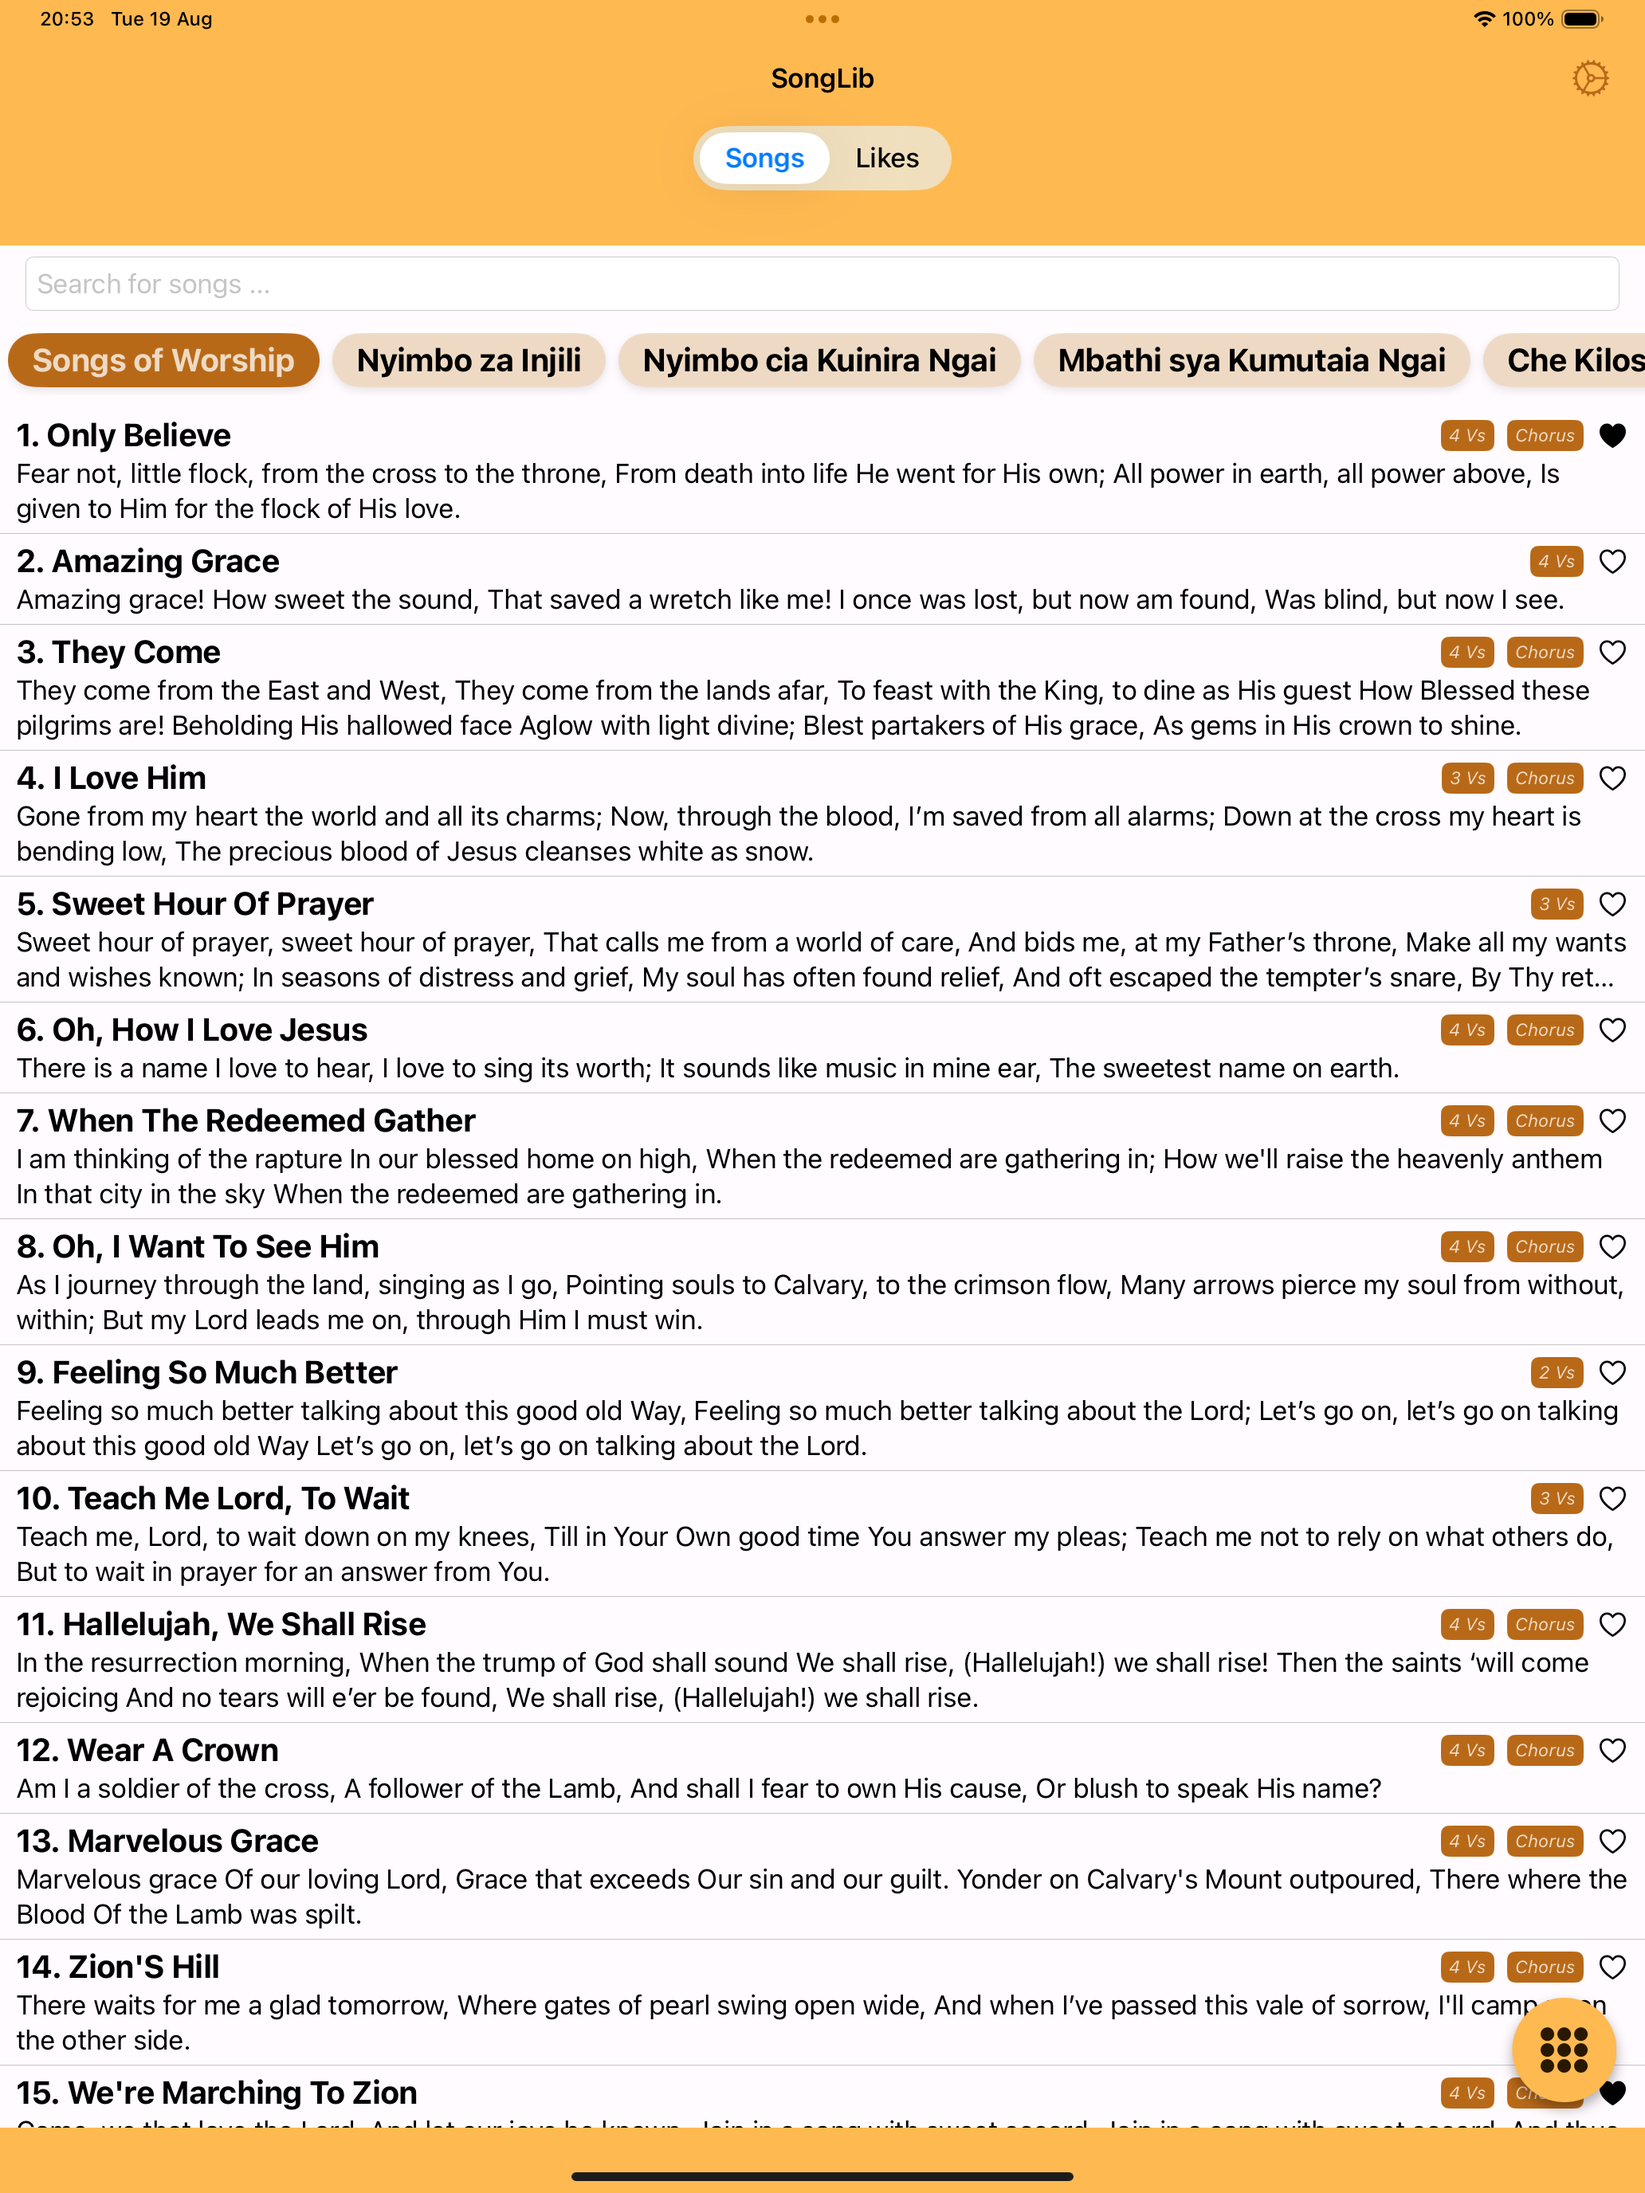
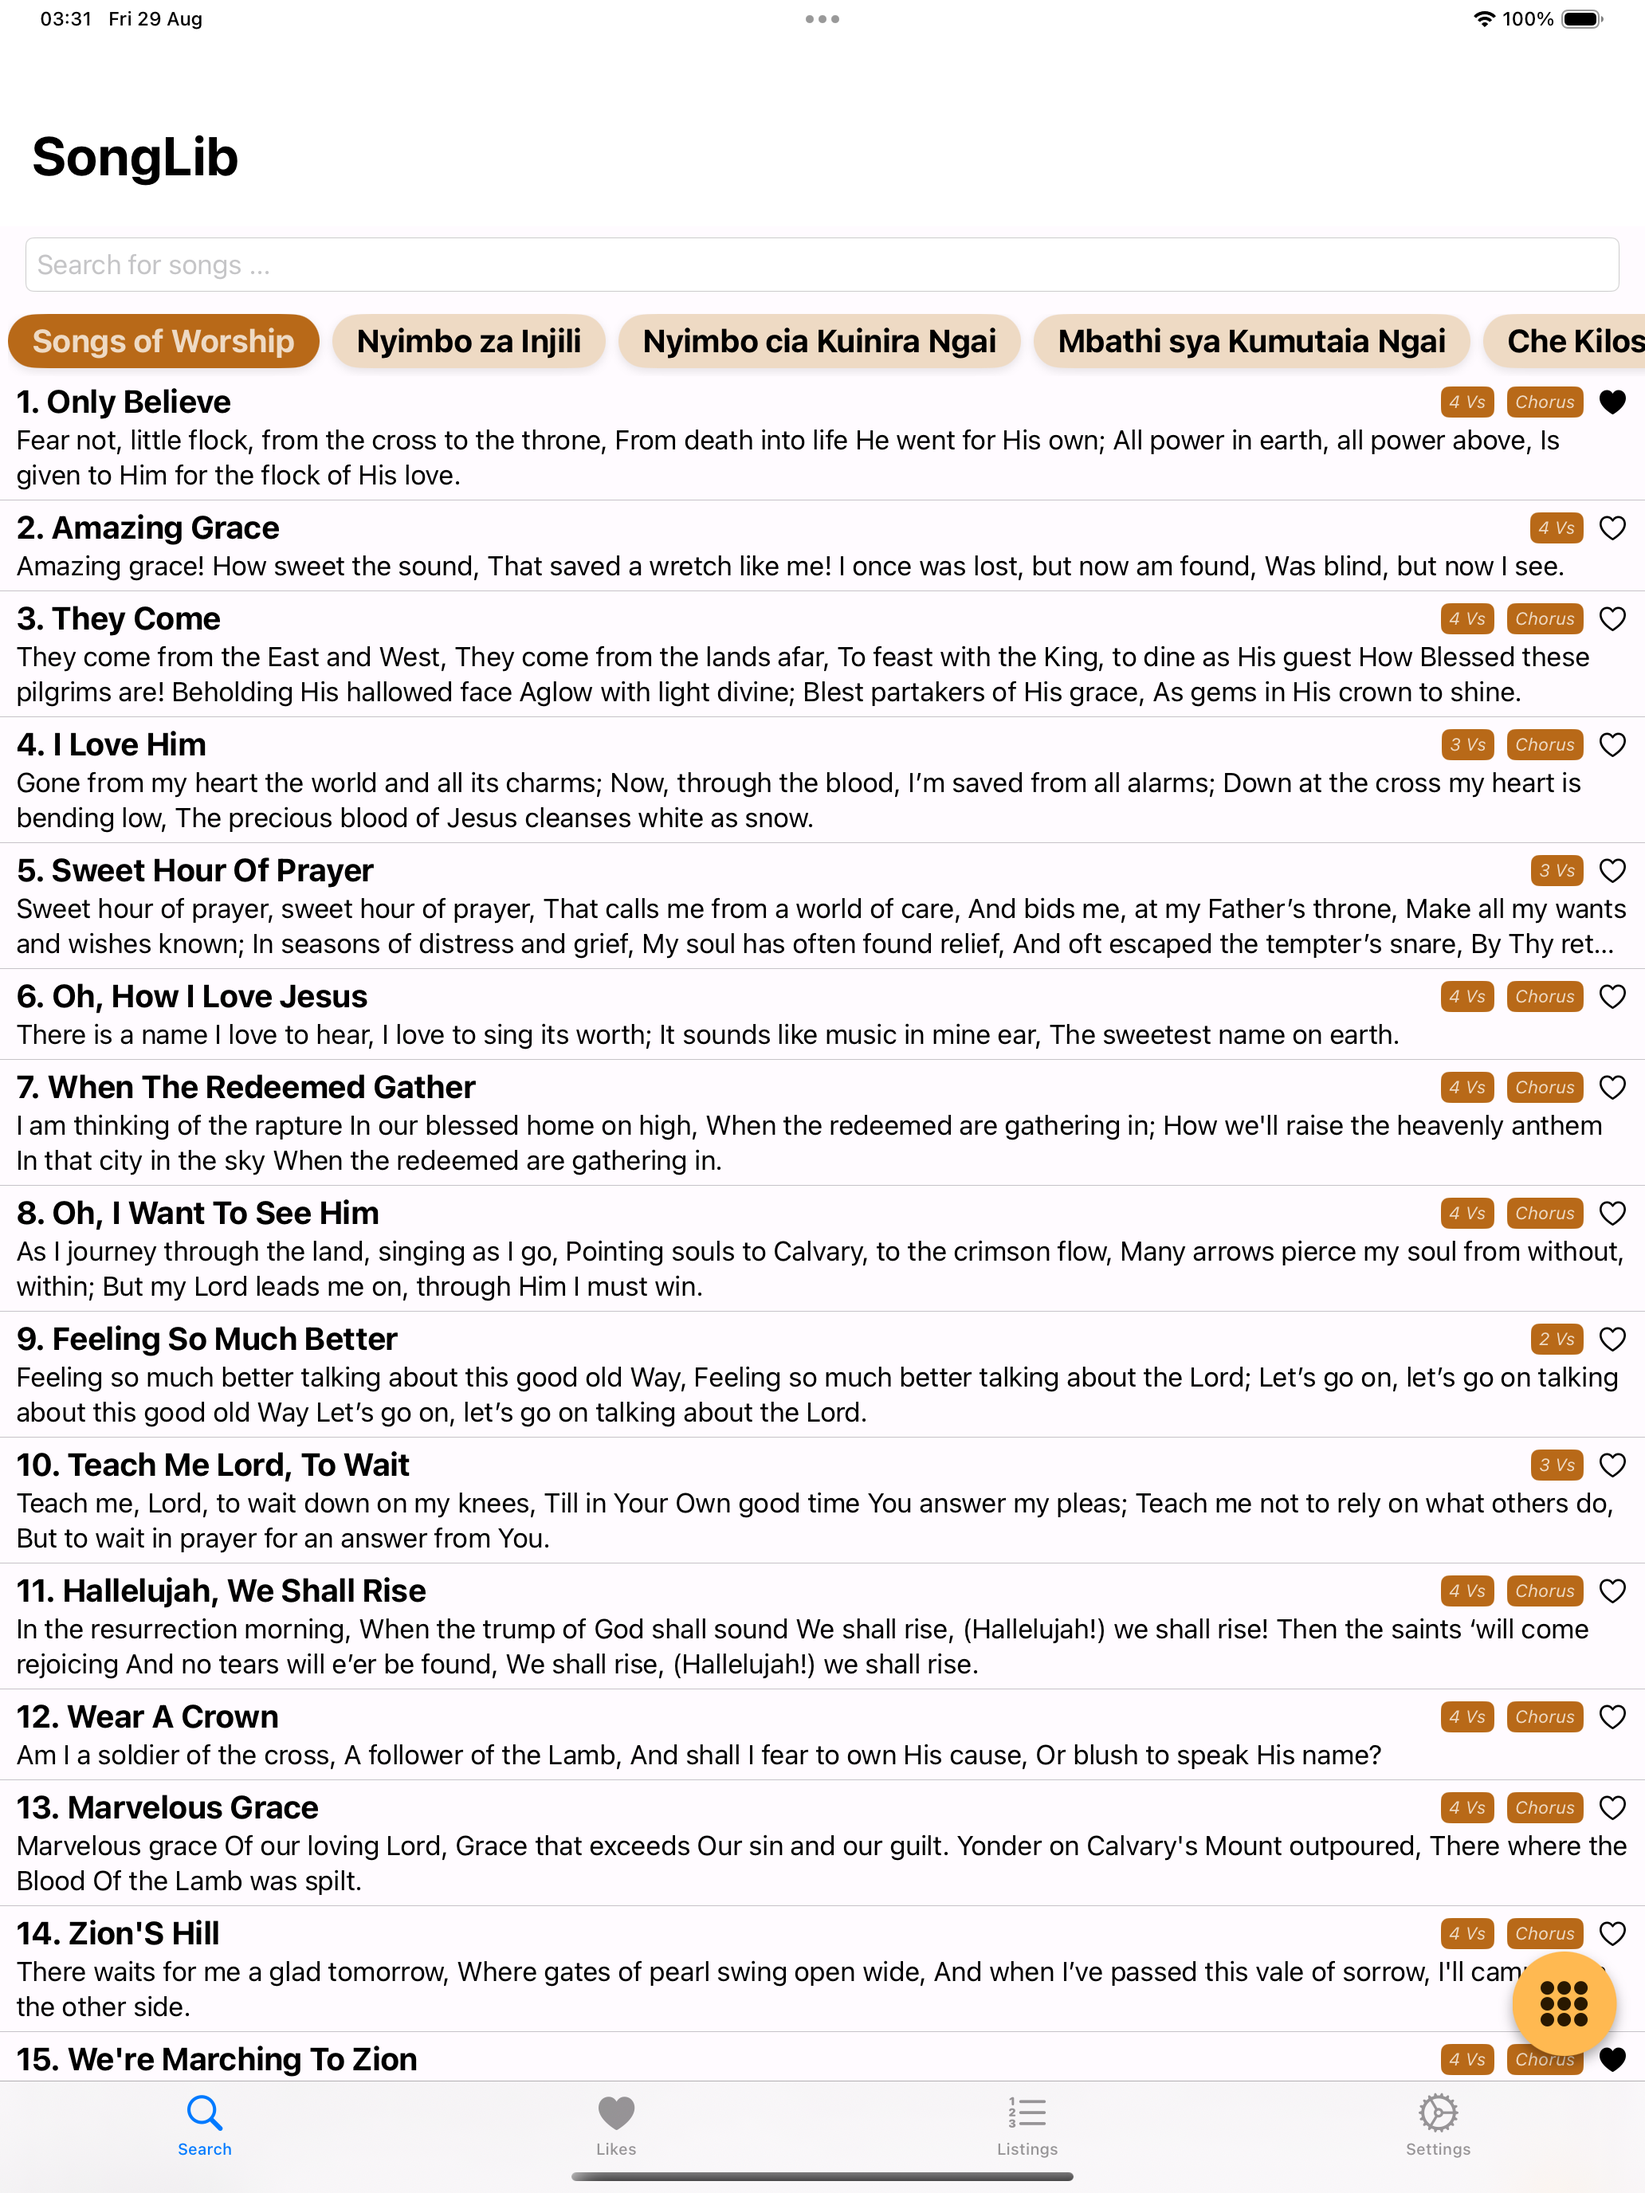
fix of dialpad

diff --git a/SongLib/Presentation/Views/Screens/Home/Tabs/HomeTabsMocks.swift b/SongLib/Presentation/Views/Screens/Home/Tabs/HomeTabsMocks.swift
@@ -10,24 +10,46 @@ import SwiftUI
 struct HomeSearchMock: View {
     var body: some View {
         NavigationStack {
-            ScrollView {
-                VStack(spacing: 1) {
-                    BooksList(
-                        books: Book.sampleBooks,
-                        selectedBook: 0,
-                        onSelect: { book in }
-                    )
-                    
-                    Spacer()
-                    SongsListMock(
-                        songs: Song.sampleSongs,
-                    )
+            ZStack(alignment: .bottomTrailing) {
+                ScrollView {
+                    VStack(spacing: 1) {
+                        BooksList(
+                            books: Book.sampleBooks,
+                            selectedBook: 0,
+                            onSelect: { book in }
+                        )
+                        
+                        Spacer()
+                        SongsListMock(
+                            songs: Song.sampleSongs,
+                        )
+                    }
+                    .background(.surface)
+                    .padding(.vertical)
                 }
-                .background(.surface)
-                .padding(.vertical)
+                .navigationTitle("SongLib")
+                .toolbarBackground(.regularMaterial, for: .navigationBar)
+                
+                Button {
+                } label: {
+                    Image(systemName: "circle.grid.3x3.fill")
+                        .font(.title.weight(.semibold))
+                        .padding()
+                        .foregroundColor(.onPrimaryContainer)
+                        .background(.primaryContainer)
+                        .clipShape(Circle())
+                        .shadow(radius: 4, x: 0, y: 4)
+                }
+                .padding()
+                DialPad(
+                    onNumberClick: { num in
+                    },
+                    onBackspaceClick: {
+                    },
+                    onSearchClick: {
+                    }
+                )
             }
-            .navigationTitle("SongLib")
-            .toolbarBackground(.regularMaterial, for: .navigationBar)
         }
     }
 }
@@ -105,4 +127,8 @@ struct HomeListingsMock: View {
             }
         }
     }
+}
+
+#Preview {
+    HomeSearchMock()
 }

diff --git a/SongLib/Presentation/Views/Screens/Home/Components/DialPad.swift b/SongLib/Presentation/Views/Screens/Home/Components/DialPad.swift
@@ -12,18 +12,29 @@ struct DialPad: View {
     let onBackspaceClick: () -> Void
     let onSearchClick: () -> Void
 
-    private let dialPadItems: [[Any]] = [
-        ["6", "7", "8", "9"],
-        ["2", "3", "4", "5"],
-        ["1", "0",
-         ("delete.left", { }),
-         ("checkmark", { })]
-    ]
+    private let dialPadItems: [[Any]] = {
+        if UIDevice.current.userInterfaceIdiom == .pad {
+            return [
+                ["4", "5", "6", "7", "8", "9"],
+                ["3", "2", "1", "0",
+                 ("delete.left", { }),
+                 ("checkmark", { })]
+            ]
+        } else {
+            return [
+                ["6", "7", "8", "9"],
+                ["2", "3", "4", "5"],
+                ["1", "0",
+                 ("delete.left", { }),
+                 ("checkmark", { })]
+            ]
+        }
+    }()
 
     var body: some View {
-        VStack(spacing: 12) {
+        VStack(spacing: 15) {
             ForEach(0..<dialPadItems.count, id: \.self) { rowIndex in
-                HStack(spacing: 12) {
+                HStack(spacing: 15) {
                     ForEach(0..<dialPadItems[rowIndex].count, id: \.self) { colIndex in
                         let item = dialPadItems[rowIndex][colIndex]
 
@@ -84,10 +95,14 @@ struct DialIconButton: View {
     }
 }
 
+//#Preview {
+//    DialPad(
+//        onNumberClick: {_ in },
+//        onBackspaceClick: {},
+//        onSearchClick: {}
+//    )
+//}
+
 #Preview {
-    DialPad(
-        onNumberClick: {_ in },
-        onBackspaceClick: {},
-        onSearchClick: {}
-    )
+    HomeSearchMock()
 }
